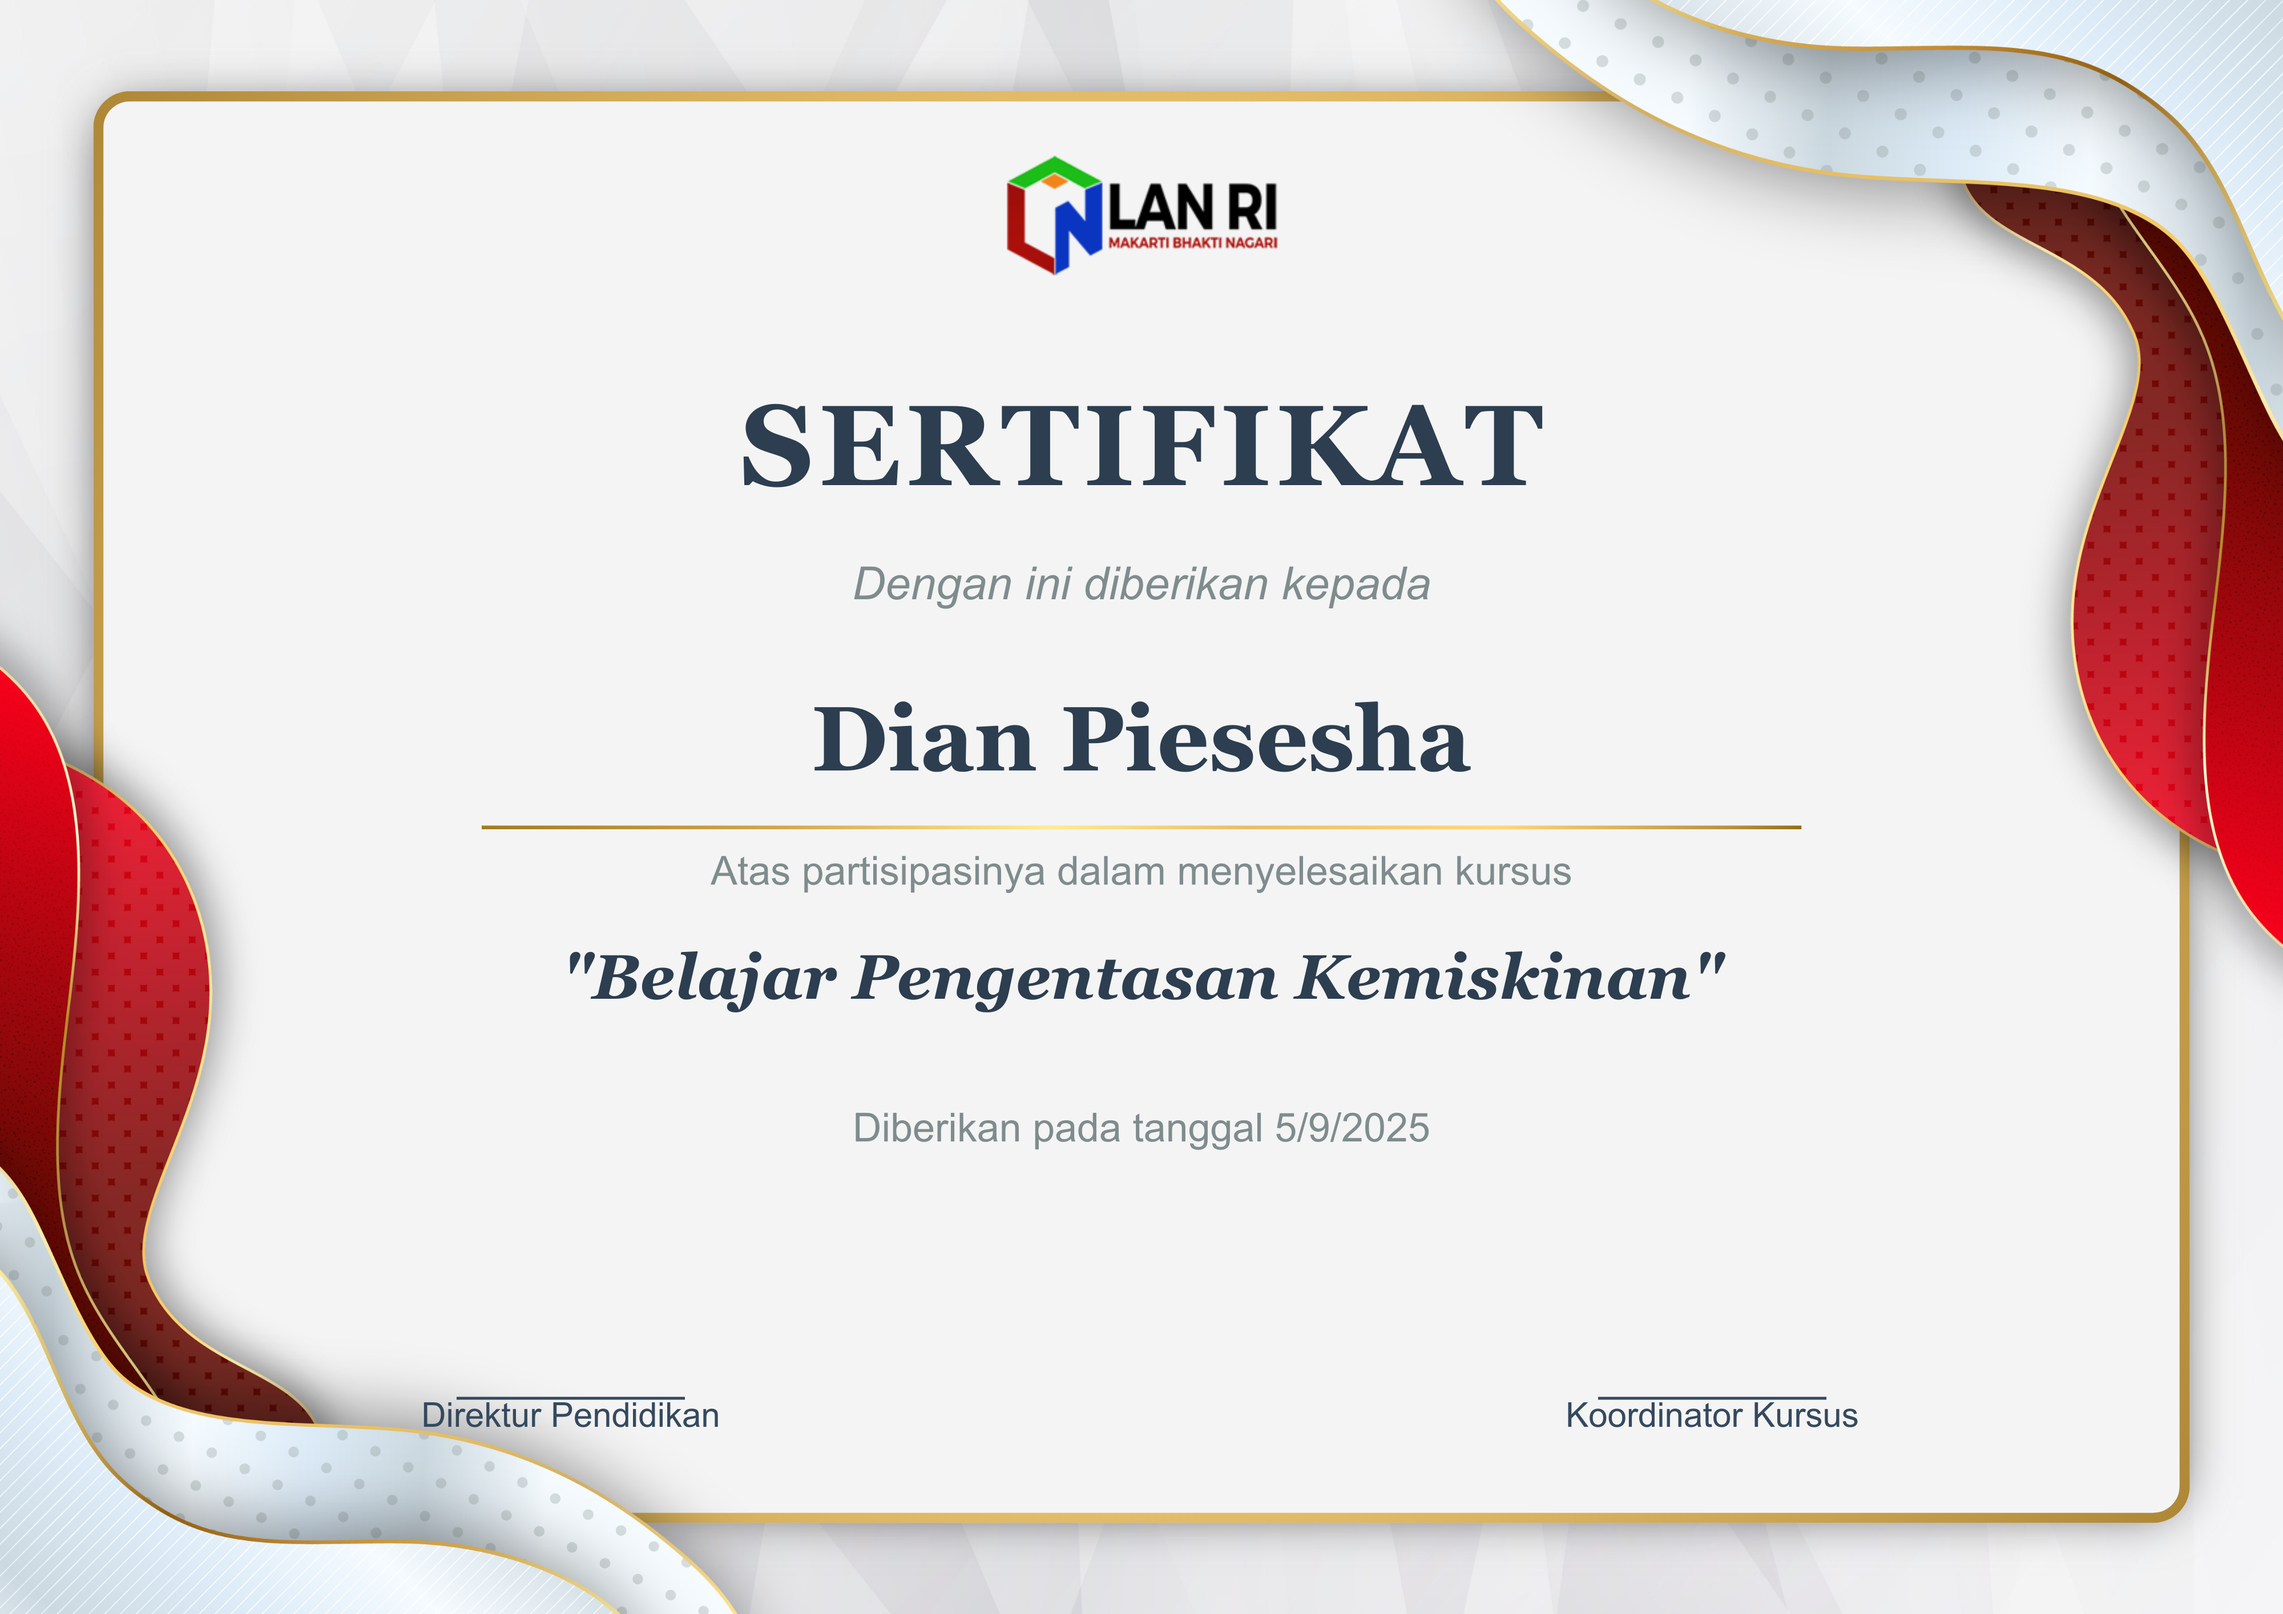
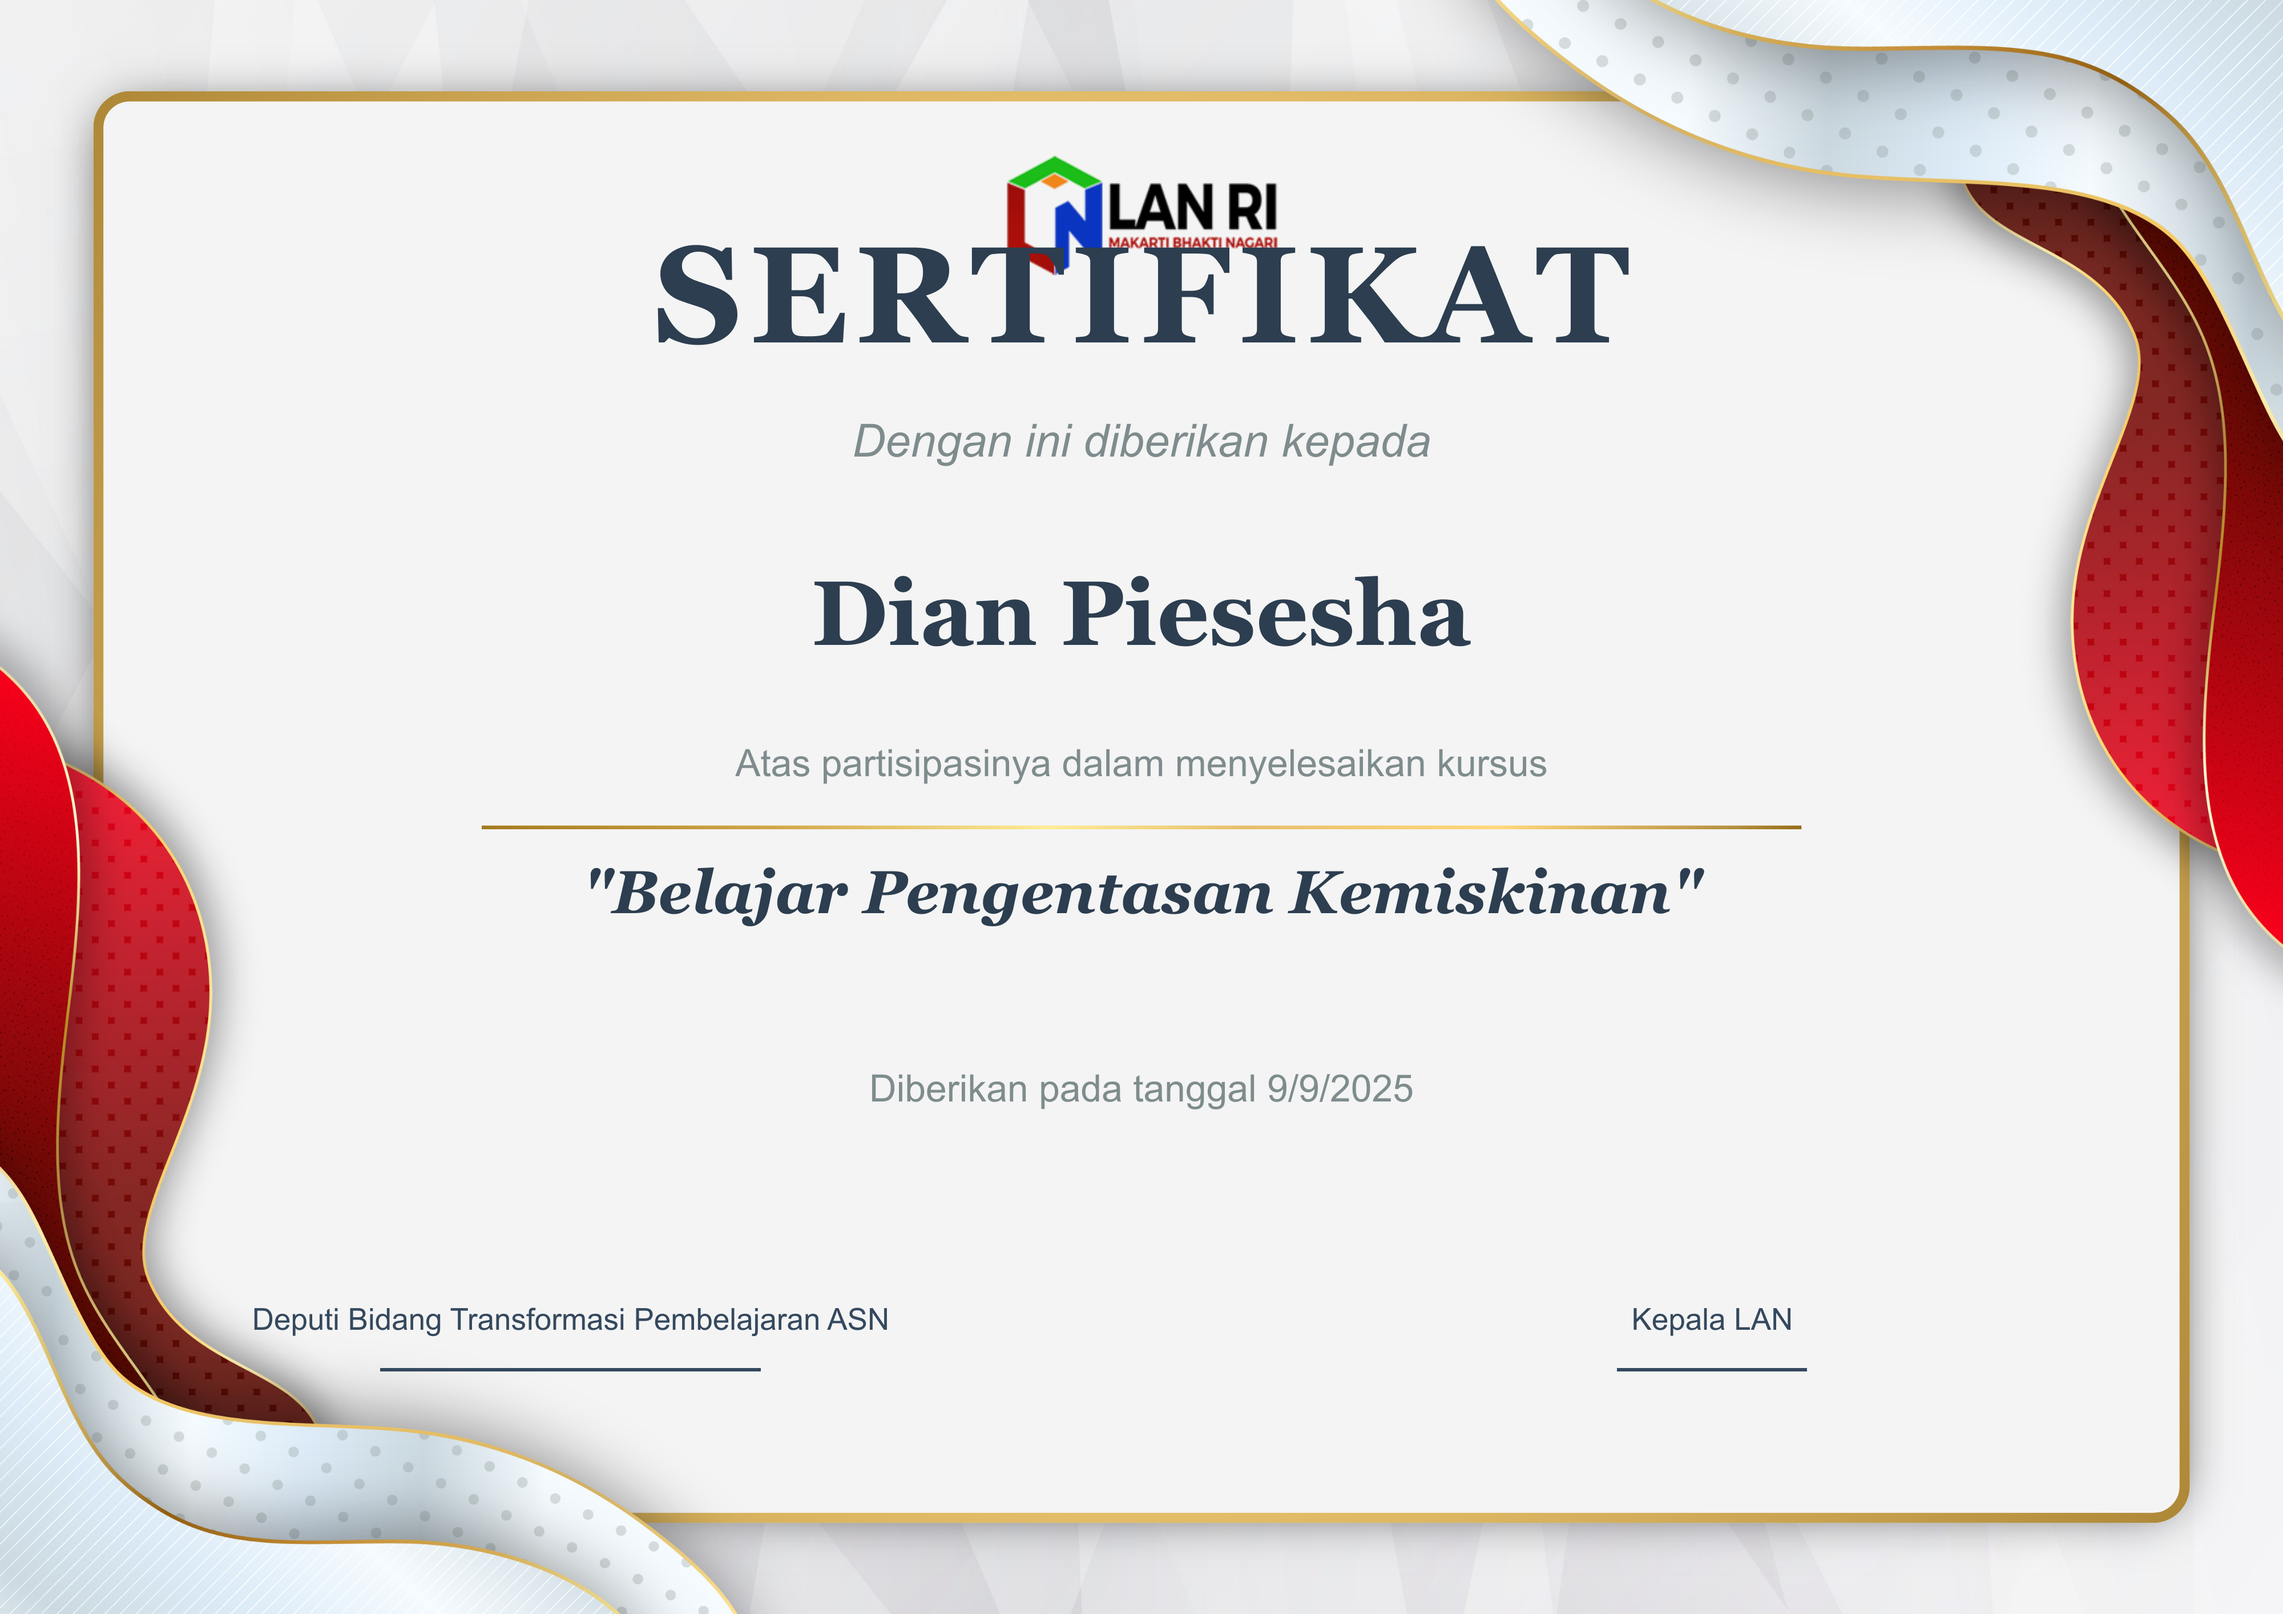
tambahin ide inovasi

diff --git a/server/api/certificate.ts b/server/api/certificate.ts
@@ -81,62 +81,62 @@ export default defineEventHandler(async (event: H3Event) => {
       const svgOverlay = `
         <svg width="4000" height="2828" xmlns="http://www.w3.org/2000/svg">
           <!-- Judul SERTIFIKAT -->
-          <text x="2000" y="850"
-                font-family="Georgia, serif" font-size="200" font-weight="bold"
-                text-anchor="middle" fill="#2c3e50" letter-spacing="8">
+          <text x="2000" y="600"
+                font-family="Georgia, serif" font-size="240" font-weight="bold"
+                text-anchor="middle" fill="#2c3e50" letter-spacing="12">
             SERTIFIKAT
           </text>
 
           <!-- Subjudul -->
-          <text x="2000" y="1050"
+          <text x="2000" y="800"
                 font-family="Arial, sans-serif" font-size="80" font-style="italic"
                 text-anchor="middle" fill="#7f8c8d">
             Dengan ini diberikan kepada
           </text>
 
           <!-- Nama Peserta -->
-          <text x="2000" y="1350"
+          <text x="2000" y="1130"
                 font-family="Georgia, serif" font-size="160" font-weight="bold"
                 text-anchor="middle" fill="#2c3e50">
             ${userName}
           </text>
 
           <!-- Keterangan -->
-          <text x="2000" y="1550"
-                font-family="Arial, sans-serif" font-size="70"
+          <text x="2000" y="1360"
+                font-family="Arial, sans-serif" font-size="66"
                 text-anchor="middle" fill="#7f8c8d">
             Atas partisipasinya dalam menyelesaikan kursus
           </text>
 
           <!-- Judul Kursus -->
-          <text x="2000" y="1750"
-                font-family="Georgia, serif" font-size="110" font-weight="bold" font-style="italic"
+          <text x="2000" y="1600"
+                font-family="Georgia, serif" font-size="106" font-weight="bold" font-style="italic"
                 text-anchor="middle" fill="#2c3e50">
             "${courseTitle}"
           </text>
 
           <!-- Tanggal -->
-          <text x="2000" y="2000"
-                font-family="Arial, sans-serif" font-size="70"
+          <text x="2000" y="1930"
+                font-family="Arial, sans-serif" font-size="66"
                 text-anchor="middle" fill="#7f8c8d">
             Diberikan pada tanggal ${date}
           </text>
 
           <!-- Signature area kiri -->
-          <text x="1000" y="2500"
-                font-family="Arial, sans-serif" font-size="60"
+          <text x="1000" y="2330"
+                font-family="Arial, sans-serif" font-size="53"
                 text-anchor="middle" fill="#34495e">
             Deputi Bidang Transformasi Pembelajaran ASN
           </text>
-          <line x1="800" y1="2450" x2="1200" y2="2450" stroke="#34495e" stroke-width="5"/>
+          <line x1="666" y1="2400" x2="1333" y2="2400" stroke="#34495e" stroke-width="6"/>
 
           <!-- Signature area kanan -->
-          <text x="3000" y="2500"
-                font-family="Arial, sans-serif" font-size="60"
+          <text x="3000" y="2330"
+                font-family="Arial, sans-serif" font-size="53"
                 text-anchor="middle" fill="#34495e">
             Kepala LAN
           </text>
-          <line x1="2800" y1="2450" x2="3200" y2="2450" stroke="#34495e" stroke-width="5"/>
+          <line x1="2833" y1="2400" x2="3166" y2="2400" stroke="#34495e" stroke-width="6"/>
         </svg>
       `;
 
